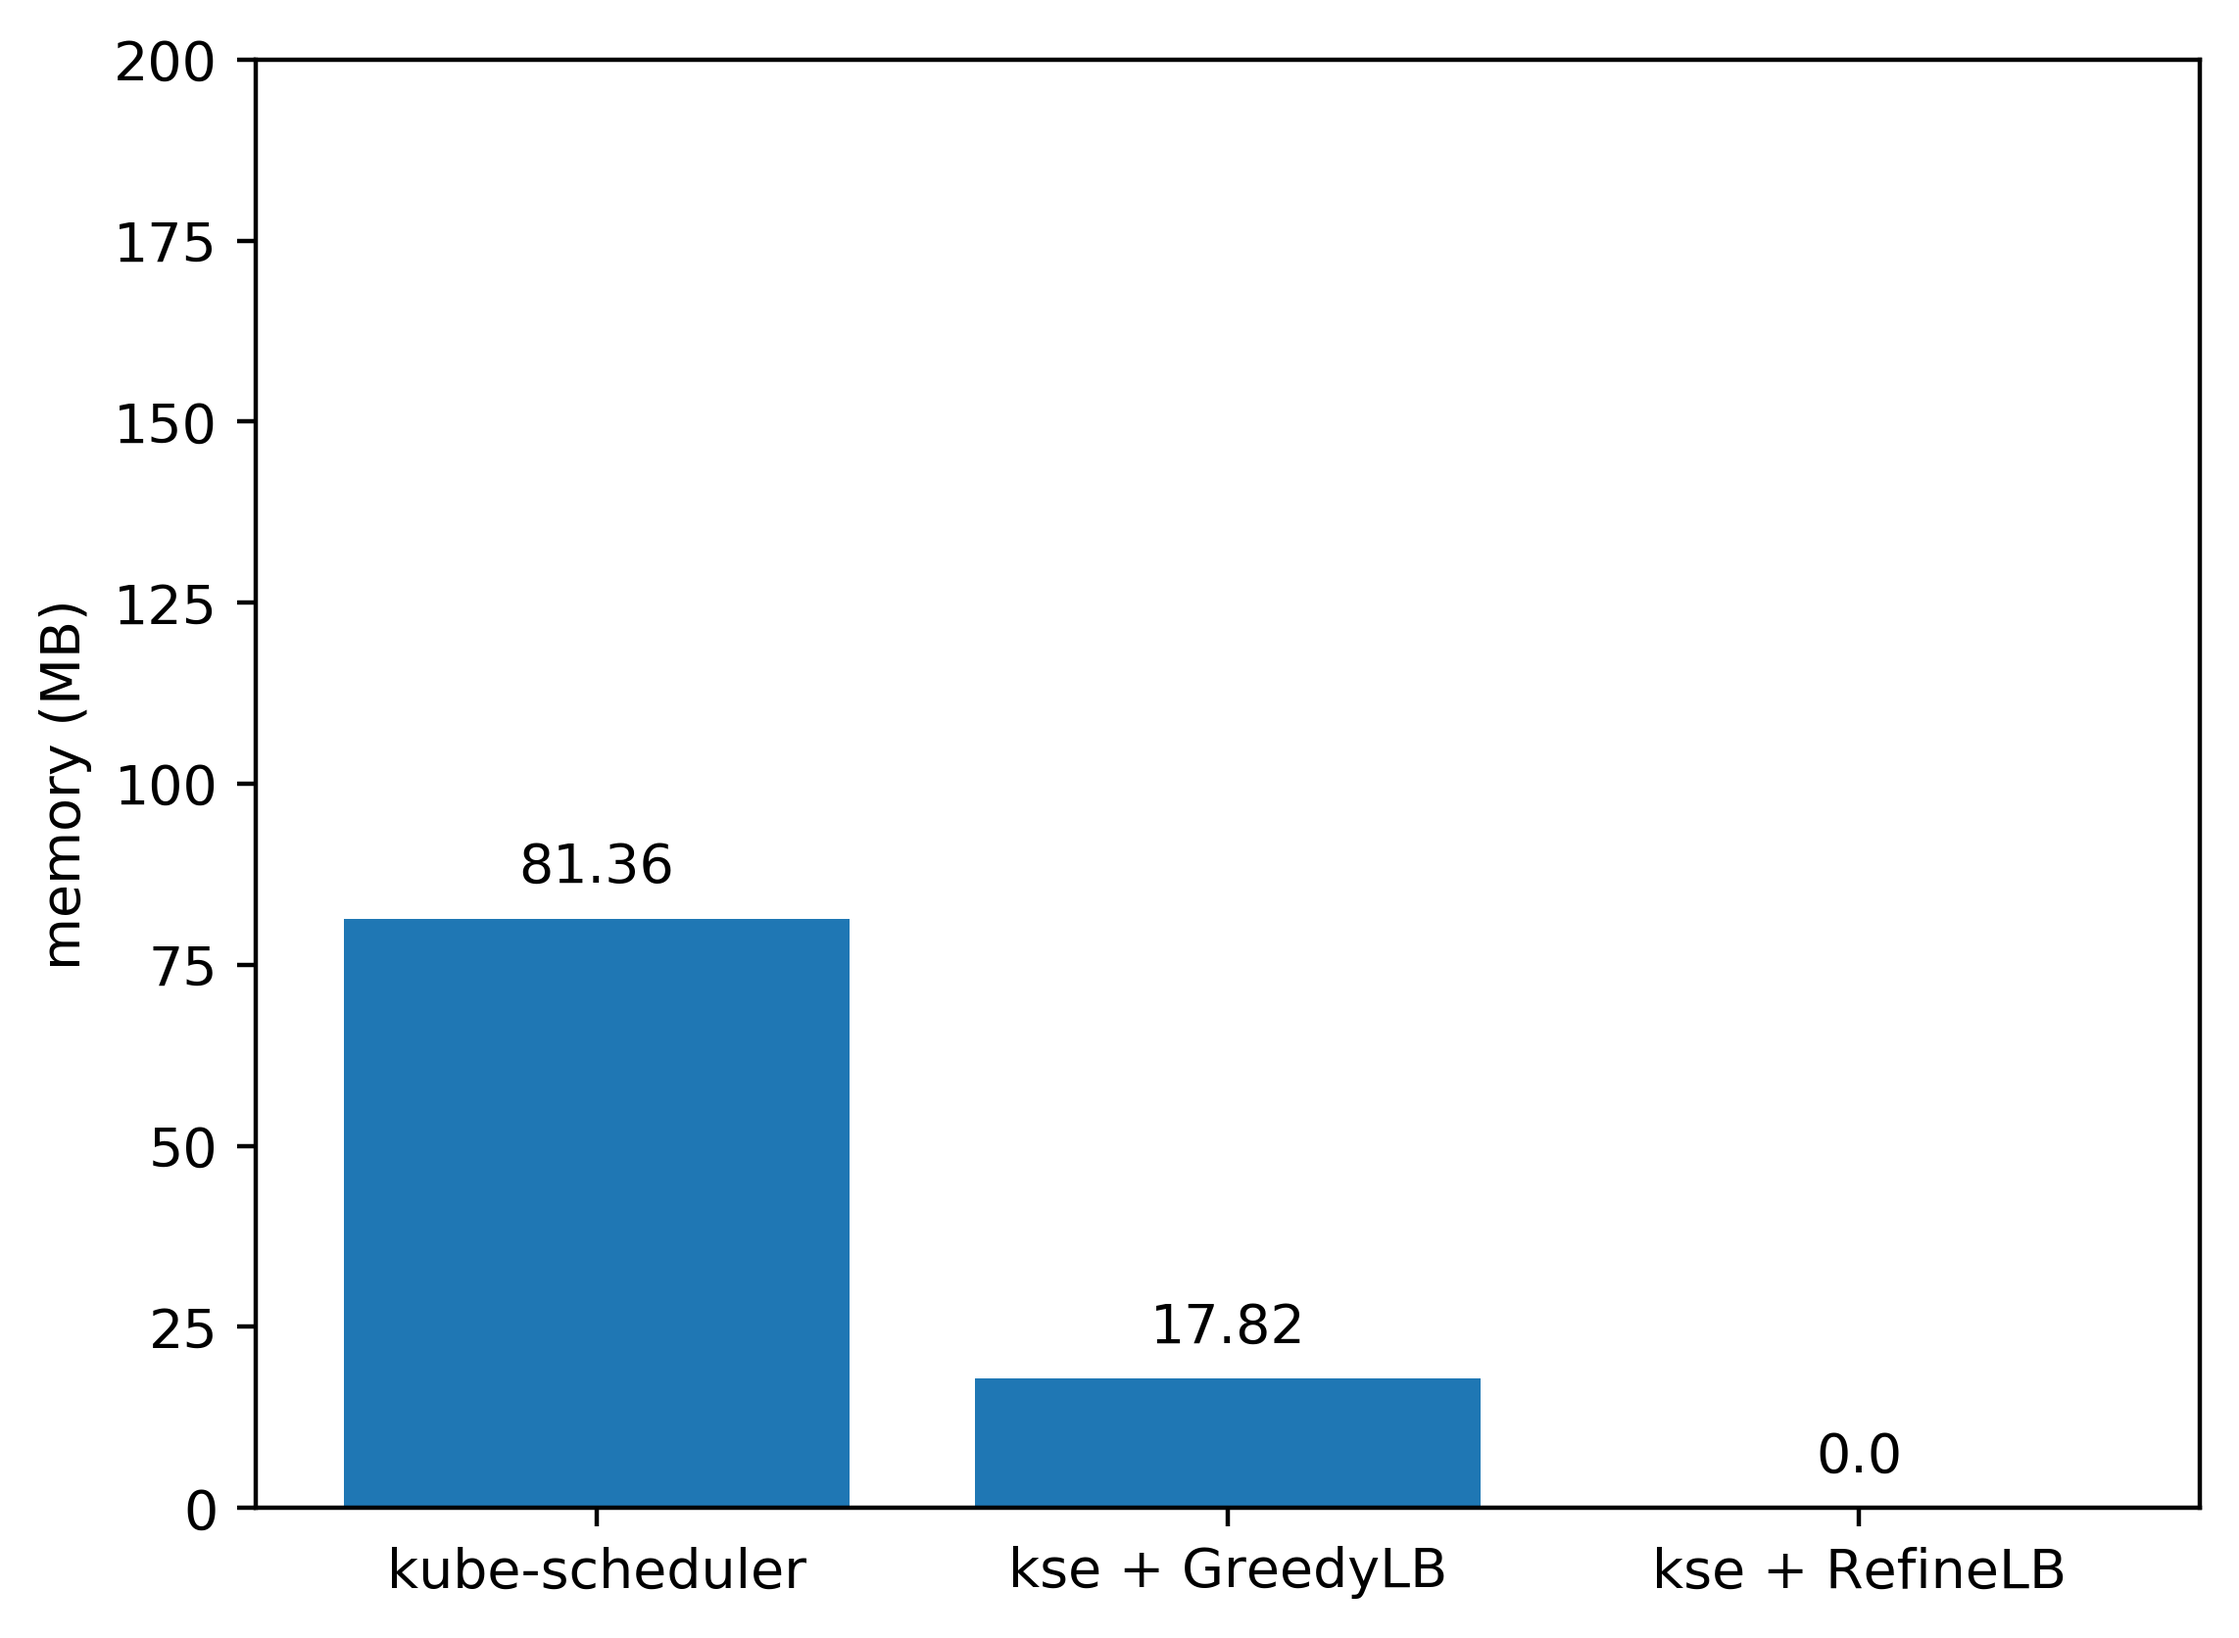
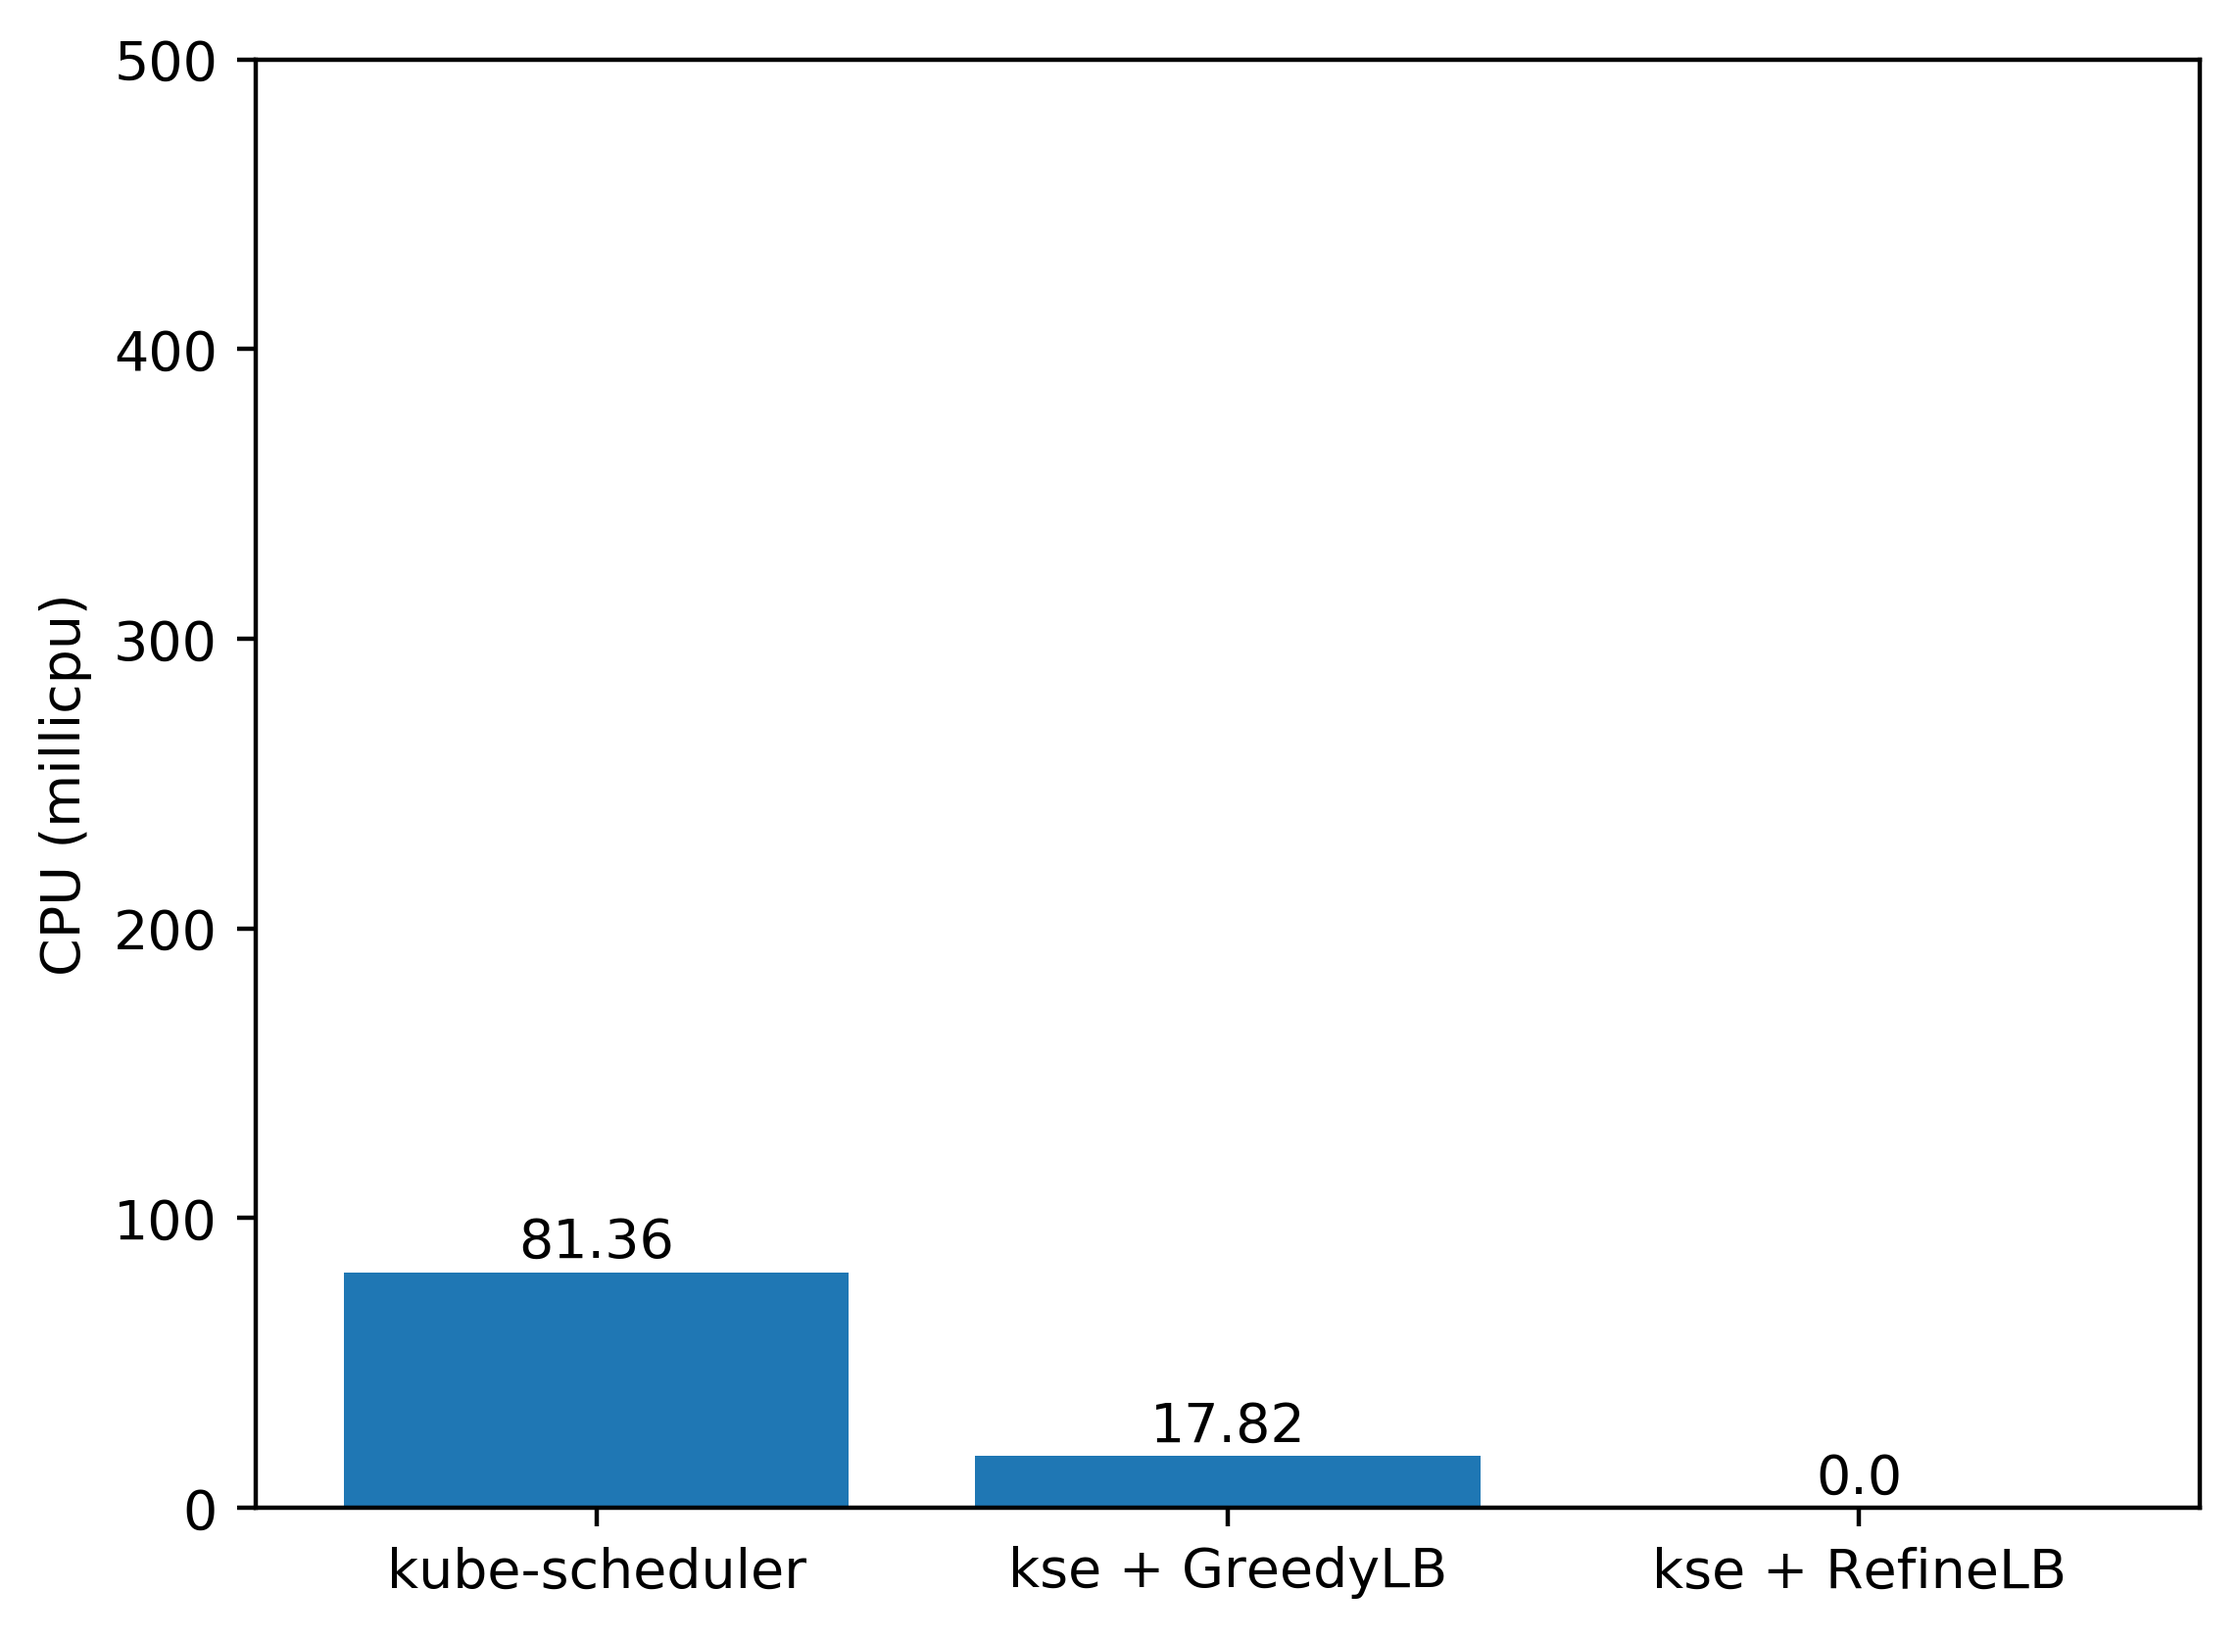
update

diff --git a/sd_graphics.py b/sd_graphics.py
@@ -8,11 +8,11 @@ def addlabels(x,y):
   for i in range(len(x)):
     plt.text(i, y[i]+5, y[i], ha = 'center')
 
-def save_graphic(value1, value2, value3, metric, filename):
-  if metric == 'memory':
+def save_graphic(value1, value2, value3, filename):
+  if 'memory' in filename:
     plt.ylim(0, 200)
     plt.ylabel('memory (MB)')
-  elif metric == 'cpu':
+  elif 'cpu' in filename:
     plt.ylim(0, 500)
     plt.ylabel('CPU (millicpu)')
   x = ['kube-scheduler', 'kse + GreedyLB', 'kse + RefineLB']
@@ -24,5 +24,5 @@ def save_graphic(value1, value2, value3, metric, filename):
   plt.cla()
   plt.clf()
 
-save_graphic(float(sys.argv[1]), float(sys.argv[2]), float(sys.argv[3]), sys.argv[4], sys.argv[5])
+save_graphic(float(sys.argv[1]), float(sys.argv[2]), float(sys.argv[3]), sys.argv[4])
 
